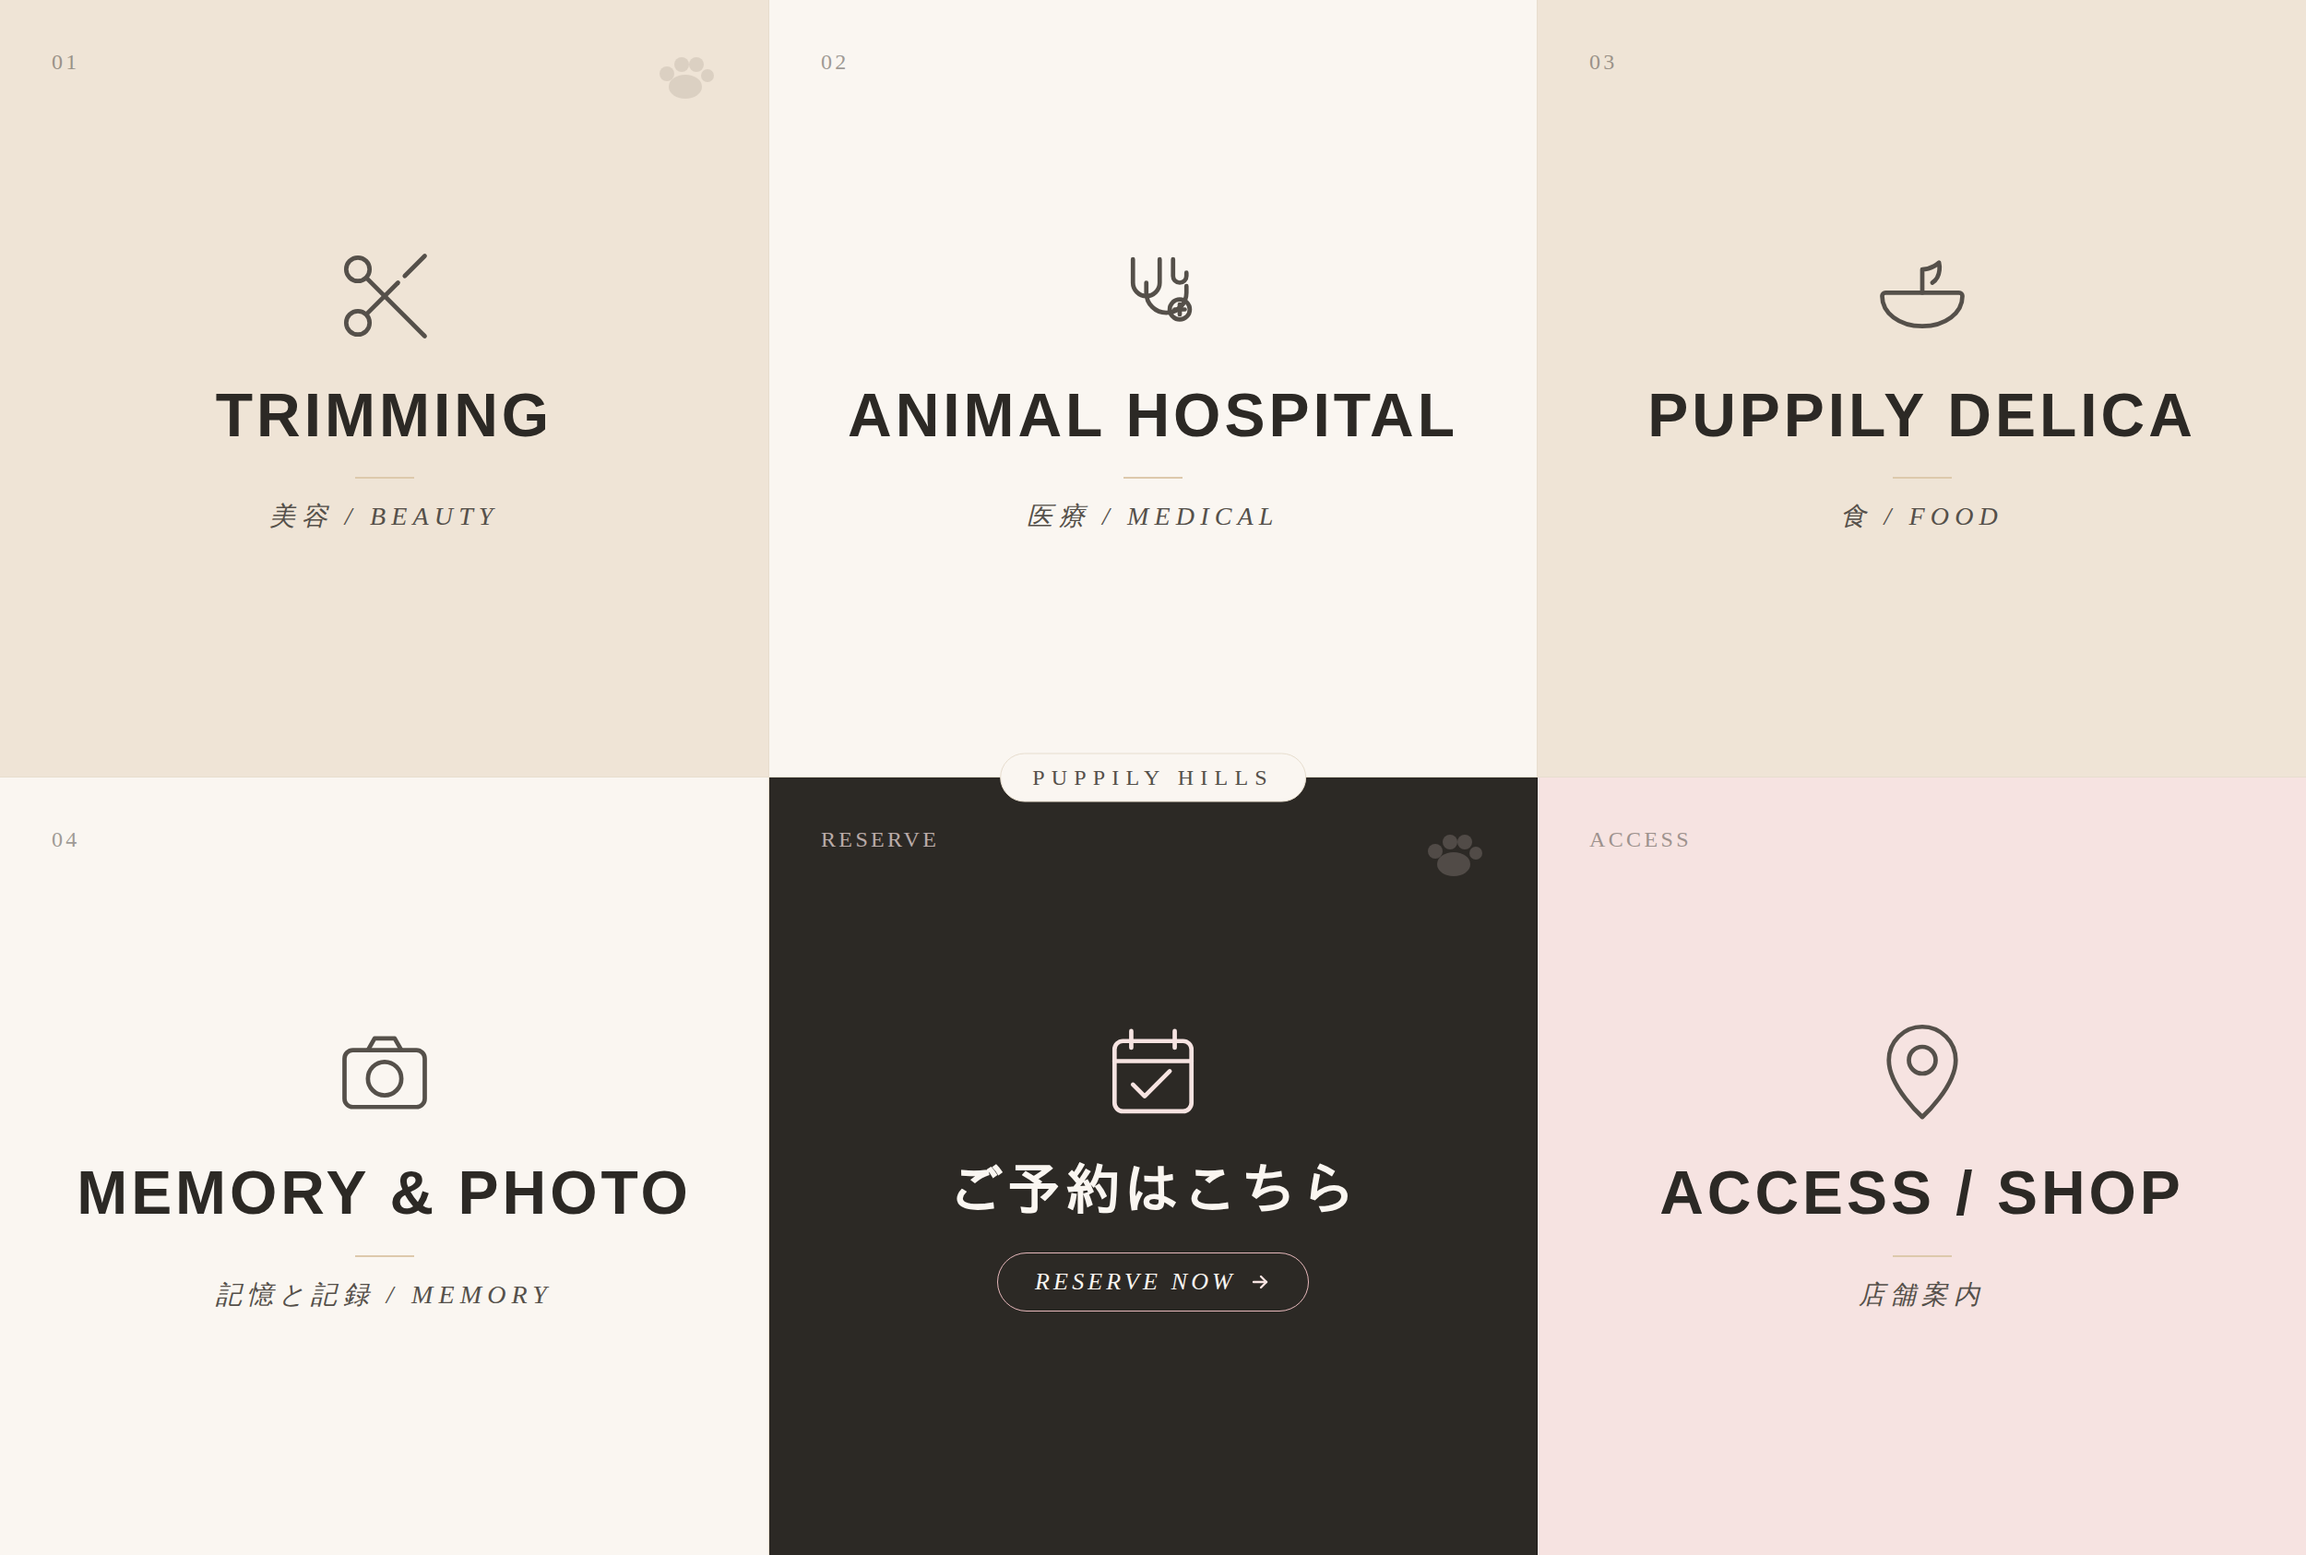
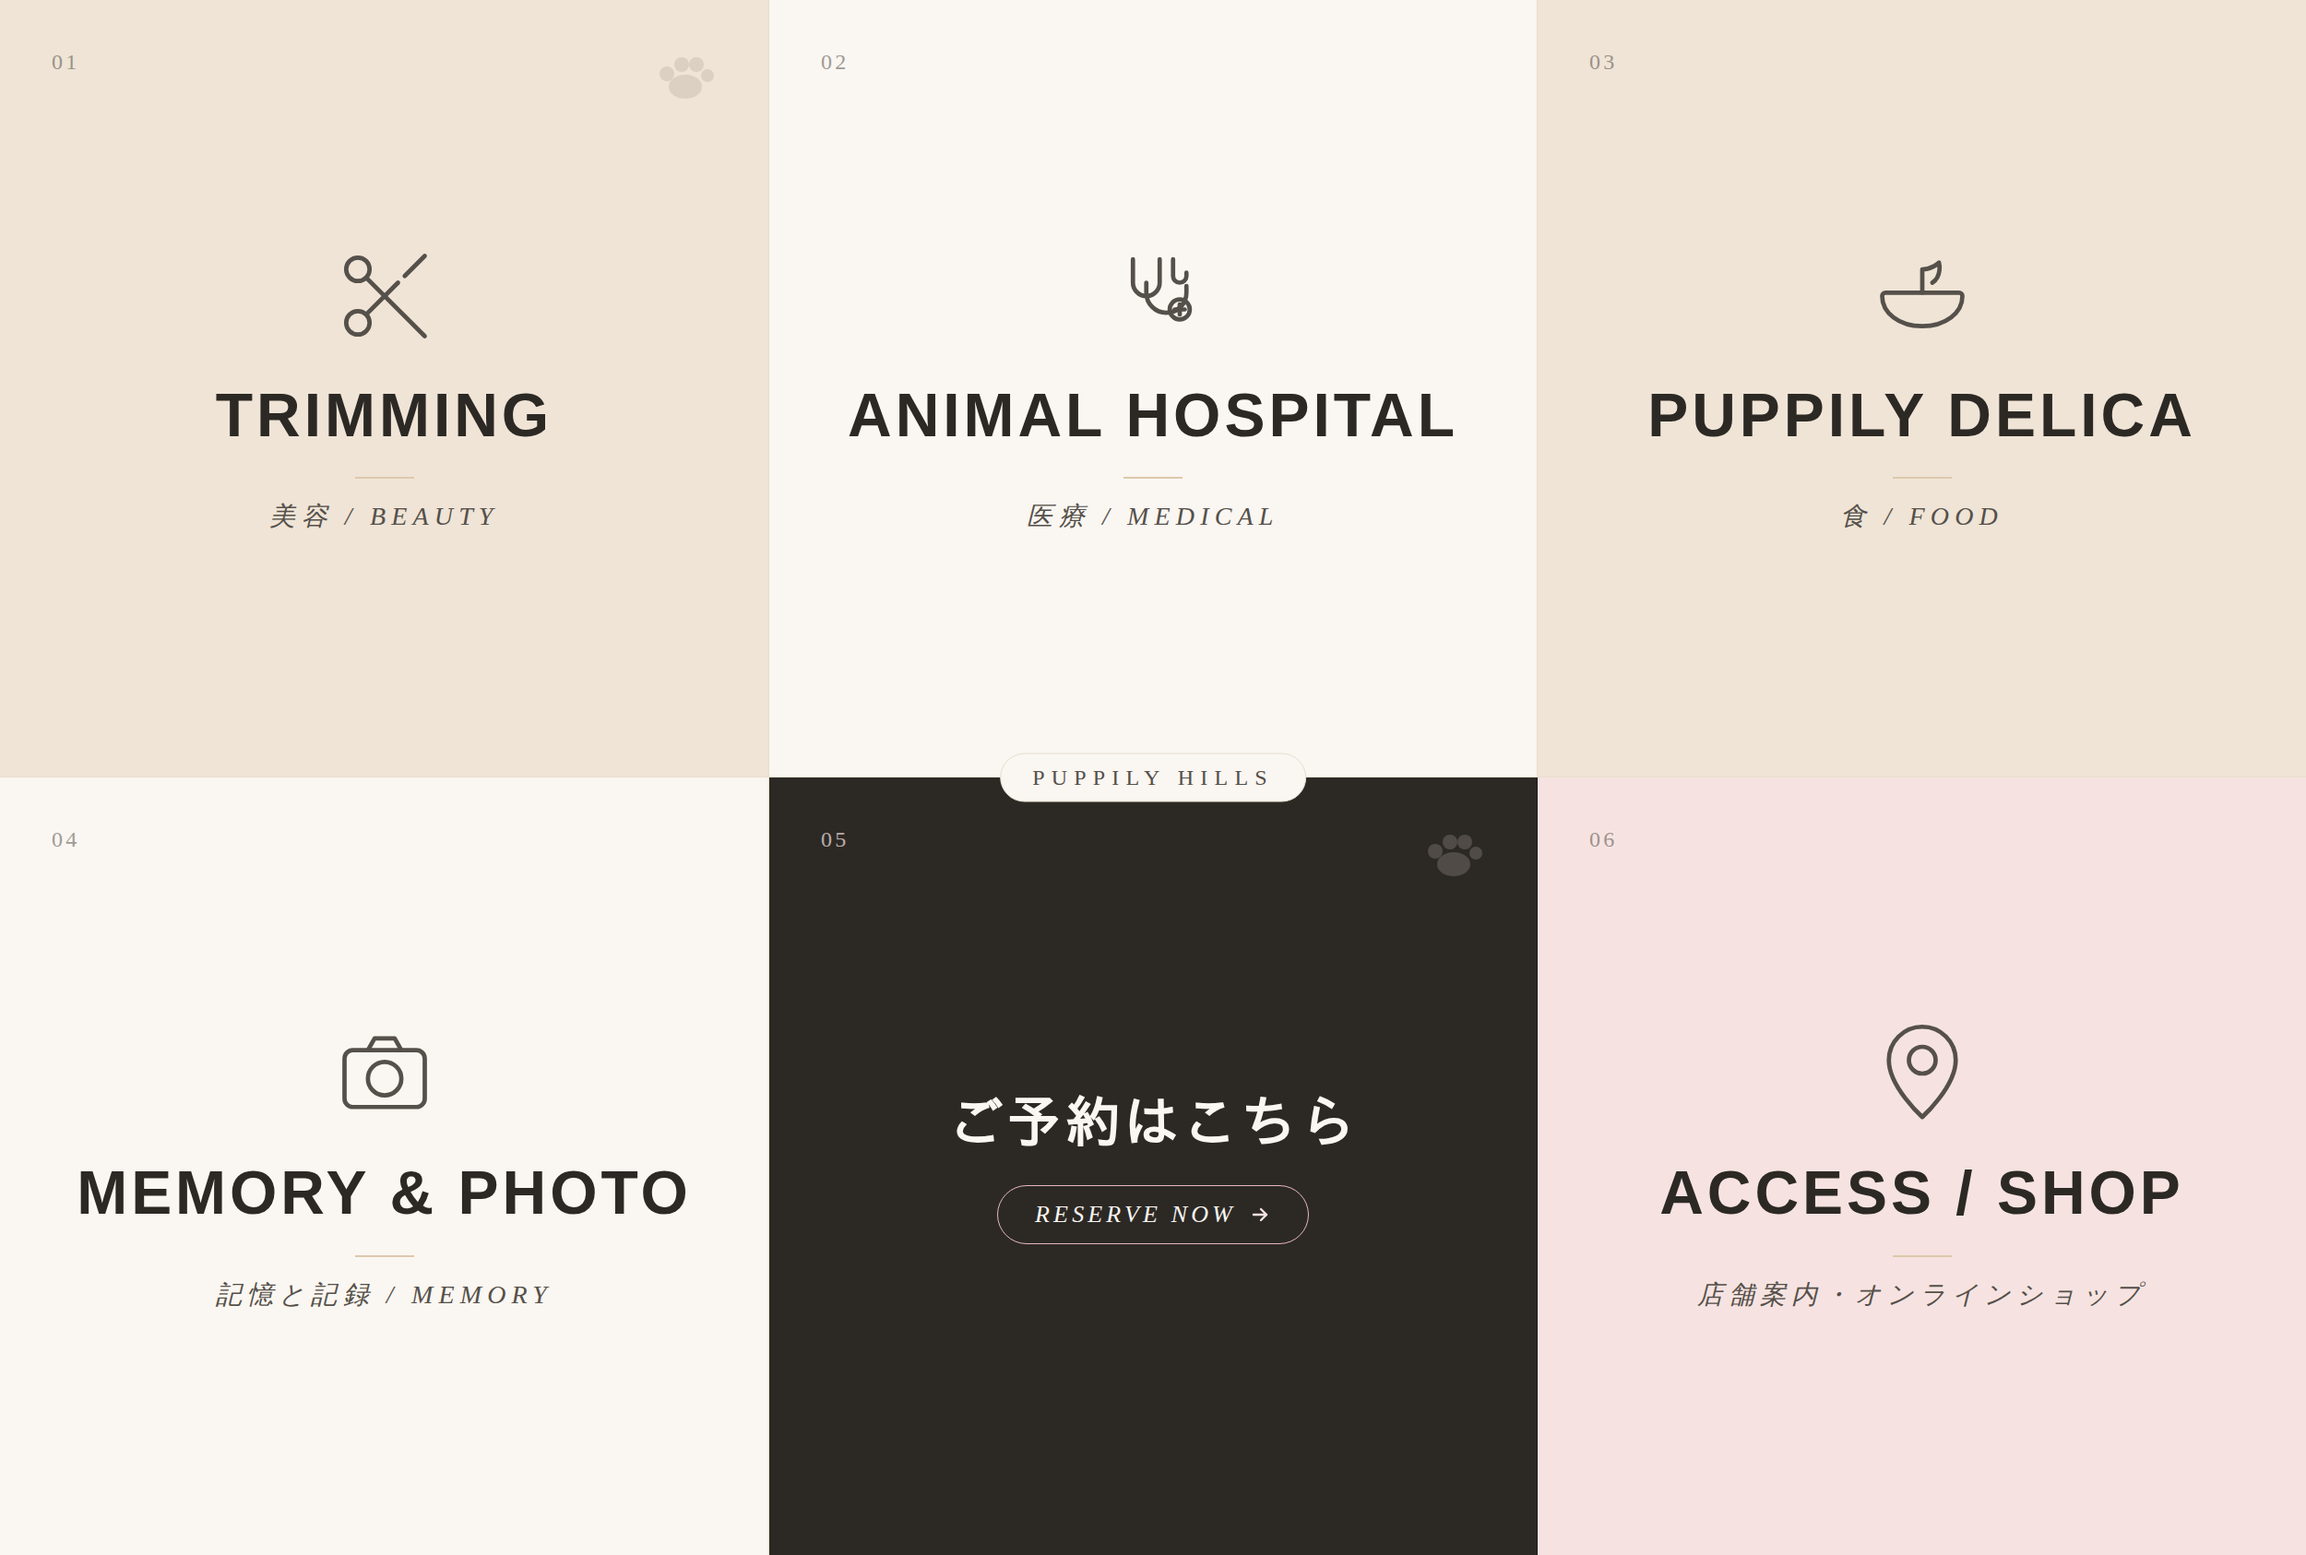
リッチメニューの文言・番号表記を修正
- ACCESS/SHOPの日本語表記を「店舗案内・オンラインショップ」に変更
- 左上の番号表記を01〜06に統一(RESERVE/ACCESSも番号化)
- ご予約はこちらセルのカレンダーアイコンを削除しテキストのみに変更

Claude-Session: https://claude.ai/code/session_01Ey3ZQbZynzoy6Bd8ewaHv8

diff --git a/scripts/richmenu/richmenu-large.html b/scripts/richmenu/richmenu-large.html
@@ -226,7 +226,7 @@
 
     <!-- A5: RESERVE (CTA) -->
     <div class="cell bg-charcoal col-b">
-      <span class="tag">RESERVE</span>
+      <span class="tag">05</span>
       <span class="paw">
         <svg width="70" height="60" viewBox="0 0 70 60" fill="#f6e3e1">
           <circle cx="18" cy="30" r="8"/><circle cx="34" cy="20" r="8"/>
@@ -234,15 +234,6 @@
           <ellipse cx="38" cy="44" rx="18" ry="13"/>
         </svg>
       </span>
-      <div class="icon-wrap">
-        <svg viewBox="0 0 64 64" fill="none" stroke="#f6e3e1" stroke-width="2.6" stroke-linecap="round" stroke-linejoin="round">
-          <rect x="9" y="12" width="46" height="42" rx="5"/>
-          <line x1="9" y1="24" x2="55" y2="24"/>
-          <line x1="19" y1="6" x2="19" y2="16"/>
-          <line x1="45" y1="6" x2="45" y2="16"/>
-          <path d="M20 38l7 7 15-15" />
-        </svg>
-      </div>
       <div class="jp" style="font-size:60px;">ご予約はこちら</div>
       <div class="cta-badge">
         RESERVE NOW
@@ -255,7 +246,7 @@
 
     <!-- A6: ACCESS / SHOP -->
     <div class="cell bg-blush">
-      <span class="tag">ACCESS</span>
+      <span class="tag">06</span>
       <div class="icon-wrap">
         <svg viewBox="0 0 64 64" fill="none" stroke="#55504a" stroke-width="2.6" stroke-linecap="round" stroke-linejoin="round">
           <path d="M32 58S12 40 12 24a20 20 0 0 1 40 0c0 16-20 34-20 34z"/>
@@ -264,7 +255,7 @@
       </div>
       <div class="jp">ACCESS / SHOP</div>
       <div class="divider"></div>
-      <div class="en">店舗案内</div>
+      <div class="en">店舗案内・オンラインショップ</div>
     </div>
 
   </div>
